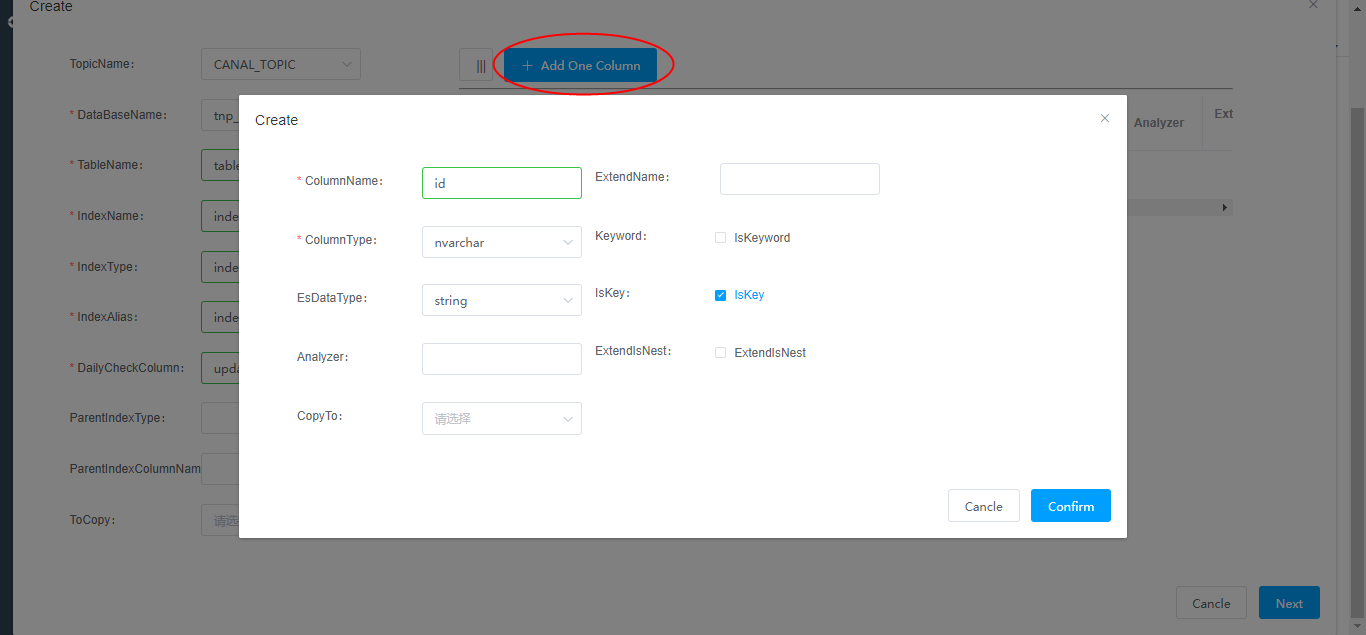
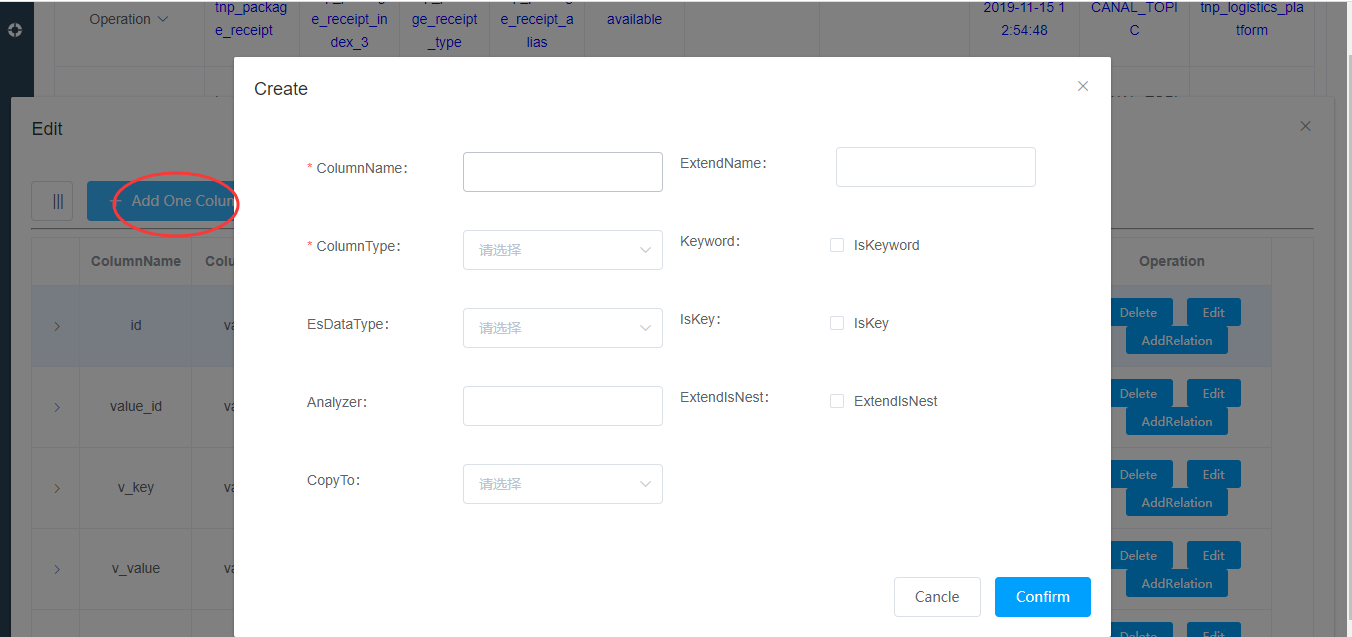
search center 2.0 version

diff --git a/source/_posts/elasticsearch/elasticsearch_center.md b/source/_posts/elasticsearch/elasticsearch_center.md
@@ -53,8 +53,12 @@ categories: cloud
   - 支持es映射的递归嵌套(支持nest嵌套)
   - 同步异常，支持断点续传
   - 表的一对多，一对一关联
+  - 索引的区域更新
   - 索引版本管理
   - 日常数据增量校验，保证每天的数据一致性（避免各类bug导致数据不一致，一个数据一致性保险检查程序）
+  - 在大表的情况，分布式创建索引
+  - 元数据类型的业务数据，当元数据修改的时候，需要将其关联的业务索引更新，这里支持延迟任务调度，并且是分布式的方式。
+  - Ik的动态词库
 
 ### 功能演示
 
@@ -80,7 +84,8 @@ categories: cloud
   - 表
     - 表的列表
       ![table-list.png](table-list.png)
-      一张表对应es里边的一个索引；
+      一张表对应es里边的一个索引;
+      如果是parent-child关系，是多张表映射到一个索引上，每一张表代表一个类型;
 
     - 表新增修改
       ![table-insert.png](table-insert.png)
@@ -88,9 +93,13 @@ categories: cloud
       IndexType：索引的type，一个索引有多个type
       IndexAlias：索引的别名，线上都是用的别名，如果索引发生了升级，只需要将别名指向新的索引版本即可，完成无缝切换
       DailyCheckColumn：日常检查的字段，一般是修改时间字段，用来对数据做校验，同步的时候也会用到这个字段，用时间戳做增量同步
+      BucketColumn: 分布式创建索引或者分布式延迟刷新元数据的时候根据这个值对表进行分桶，一般是表的创建时间
       ParentIndexType：父子关系的时候，当前是child，ParentIndexType指向的是parent的index type，父子关系中父是一个type，child是一个type，2个type必须在同一个索引里边。
       ParentIndexColumnName：子表中父表的pid字段名称。
       ToCopy：参考es官网解释：https://www.elastic.co/guide/en/elasticsearch/reference/current/copy-to.html
+      DelayEffect: 是否延迟刷新，当一张表设置了这个属性为true，那么这张表的binlog在消费的时候，不会刷新到索引，而且保存在mysql数据库里边，这些快照数据等待调度任务去消费，刷新到索引里边去，因此是延迟的方式，而且支持分布式的方式，被设置为true的表会在【delay】菜单展示，后续会对delay菜单做介绍。
+      Add One Column操作：添加一列
+      Auto Gen Column: 根据左侧填写的表名，自动拉取所有的列
 
     - 表字段添加
       ![table-column-insert.png](table-column-insert.png)
@@ -111,10 +120,16 @@ categories: cloud
       RelationTableColumns：关联的表要加载它的那些字段
       RelationTableColumn：当前SearchColumnName和RelationTableName的RelationTableColumn发生关联，一般是id之类的。
       ExtendIsNest：是否是嵌套的，此处可以覆盖字段的ExtendIsNest
+      freeSql: 关联子表附带的查询条件，比如 delete=0 and status = 1
+      Distinct: 对sql的查询结果进行mysql的distinct关键字去重
+      refreshParent: 当子表数据发生变化，而且子表在索引里边是nest的内嵌的方式，那么子表的数据变化会触发所在文档的更新
+      AreaUpdate:当子表数据发生变化，而且子表在索引里边是nest的内嵌的方式，那么子表的数据变化会触发所在文档的更新，更新方式采用区域更新的方式，和refreshParent的差别是少了很多无关的数据的查询，区域更新采用es的脚本更新文档的方式进行的
     - 表的状态和操作
       ![table-list-operation.png](table-list-operation.png)
-      另外表的状态在history和avaiable状态的时候会有deleteAll操作权限，deleteAll会把抽闲和es当中的索引全部删除，危险操作；
+      另外表的状态在history和avaiable状态的时候会有deleteAll操作权限，deleteAll会把抽象和es当中的索引全部删除，危险操作；
       表的抽象创建完毕之后状态是unavailable状态，表在创建新的索引之后，首先是changing状态，标识正在创建新的索引版本，版本会自动加一，上一个版本的索引会置为history，新的索引的状态是available状态，标识正在同步mysql。
+      Reset：状态置为可用、版本号清空、索引任务删除、当前版本索引删除，如果当前索引正在创建将会被强制终止，主要作用是用于创建异常的人工恢复。
+      AddDelayEffect: 当前表的变化不会立刻刷新到索引文档里边去，而是由调度任务去完成，一般元数据的表，并且这种元数据经常发生改变。
 
 ### 架构设计
 
@@ -126,27 +141,186 @@ categories: cloud
 #### 索引创建流程
   索引创建流程就是在页面发起【createIndex】操作，后端会进行5个步骤的操作：
   - 创建索引请求的发起，这个过程会做一些表和字段的校验，以及一些判重操作，比如当前表已经同步过，或者正在同步，又或者在同步任务比价多，同步任务被放到任务队列里边也是会被发现的，这些数据是不允许往下执行的。
-  - 将当前表抽象为一个同步任务，在DB层面就是在tnp_search_job里边插入一条数据，任务状态status是init，之后syn_cursor步长初始化时间是将要同步的表的最小时间, 即，select min(DailyCheckColumn) from table,注意：tnp_search_job表里边的数据只有三种状态，init、running、done，如果一个任务同步失败，那么这条同步任务会从tnp_search_job里边删除。
-  - 通知同步线程去消费本次的同步任务：
-    同步线程SynchronizeJobTask内部有一把锁，我们可以将SynchronizeJobTask理解为消费者，页面的创建索引请求是生产者，当消费者没有任务可以消费的时候，就会在lock上wait，当页面发起请求，插入了一条同步任务，就会notify一下消费线程去消费，这是一个经典的wait/notify模型，生产者消费者问题，lock就是用来做生产和消费协调的。我们可以看到消费者消费任务的时候，获取任务的sql：select * from from tnp_search_job where status in ('init','running'),即，初始化的任务和正在进行中的任务都会进入到同步线程的管理，running状态的也会加载出来的原因是为了在同步的过程中突然断电，下次启动的时候仍然可以从之前断掉的时间继续同步，也就是断点续传。
-  - 异步执行同步任务
+  - 一个创建索引的请求就是对一张表的数据到es的全量同步，table_id是当前要同步表的id，这张表首先会通过create_time分为多个桶，total_bucket_number是集群当中部署的app数量，mod_number是某个节点的顺序号(mod_number <= total_bucket_number),data_cursor是同步的游标，一般是表的id字段的值，job_type是任务的类型，创建索引是index类型，delay任务调度是job类型，params是任务的参数，比如在job类型，只同步某个业务id，可以放在这个参数里边，syn_cursor已经废弃，不再描述。集群当中存活的机器数n就是一张表生成的tnp_search_job的记录数。
+  - 分桶之后每台机器执行的sql会根据mod_number进行分区拉取数据:select * from table where  UNIX_TIMESTAMP(A.create_time) mod total_bucket_number  = mod_number order by A.modify_time;A指的是业务表名称。
+  ```
+  CREATE TABLE `tnp_search_job` (
+    `id` varchar(64) COLLATE utf8_bin NOT NULL,
+    `table_id` varchar(64) COLLATE utf8_bin DEFAULT NULL COMMENT 'table的id',
+    `status` varchar(45) COLLATE utf8_bin DEFAULT NULL COMMENT '同步状态',
+    `syn_cursor` timestamp(6) NULL DEFAULT NULL COMMENT '按照时间同步时间游标',
+    `total_bucket_number` int(11) DEFAULT NULL COMMENT '桶总数',
+    `mod_number` int(11) DEFAULT NULL COMMENT '桶编号',
+    `data_cursor` varchar(64) COLLATE utf8_bin DEFAULT NULL COMMENT '业务数据同步游标',
+    `job_type` varchar(45) COLLATE utf8_bin DEFAULT NULL COMMENT '任务类型：index:索引创建任务/task:调度任务',
+    `params` varchar(4096) COLLATE utf8_bin DEFAULT NULL COMMENT '任务参数',
+    `create_time` datetime DEFAULT NULL,
+    `modify_time` datetime DEFAULT NULL,
+    PRIMARY KEY (`id`)
+  ) ENGINE=InnoDB DEFAULT CHARSET=utf8 COLLATE=utf8_bin COMMENT='记录表的同步状态和同步游标';
+  ```
+  - 负载均衡过程：
+    发起负载均衡的节点执行负载均衡逻辑，每个节点都会把节点的抽象写到zookeeper里边，抽象对象如下：
+    ```
+    @Data
+    public class NodeJobEntity {
+
+        public NodeJobEntity(){}
+
+        public NodeJobEntity(CloudStatusENUM cloudStatusENUM, NodeStatusENUM nodeStatusENUM, NodeJobTypeENUM nodeJobTypeENUM,
+                             List<SearchJobBO> indexJobs, String rebalanceSessionId) {
+            this.cloudStatusENUM = cloudStatusENUM;
+            this.nodeStatusENUM = nodeStatusENUM;
+            this.nodeJobTypeENUM = nodeJobTypeENUM;
+            this.indexJobs = indexJobs;
+            this.rebalanceSessionId = rebalanceSessionId;
+        }
+
+        public NodeJobEntity(CloudStatusENUM cloudStatusENUM, NodeStatusENUM nodeStatusENUM, NodeJobTypeENUM nodeJobTypeENUM,
+                             List<SearchJobBO> indexJobs,  JobParam params, String rebalanceSessionId) {
+            this.cloudStatusENUM = cloudStatusENUM;
+            this.nodeStatusENUM = nodeStatusENUM;
+            this.nodeJobTypeENUM = nodeJobTypeENUM;
+            this.indexJobs = indexJobs;
+            this.params = params;
+            this.rebalanceSessionId = rebalanceSessionId;
+        }
+
+        /**
+         * 集群状态
+         REBALANCING("rebalancing"),
+         NORMAL("normal");
+         */
+        private CloudStatusENUM cloudStatusENUM;
+        /**
+         * 节点状态
+          CLEAN("clean"),
+          CLEAN_OK("clean_ok"),
+          INIT("init"),
+          FINISH("finish");
+         */
+        private NodeStatusENUM nodeStatusENUM;
+
+        /**
+         * 任务节点类型
+         INDEX("index"),
+         JOB("job");
+         */
+        private NodeJobTypeENUM nodeJobTypeENUM;
+
+        /**
+         * 节点任务
+         */
+        private List<SearchJobBO> indexJobs;
+
+        /**
+         * 任务参数
+         */
+        private JobParam params;
+
+        /**
+         * 工作线程池存活的线程数和未完成的任务数=
+         * ThreadPoolManager.getHighFrequencyTaskPool().getQueue().size()  + ThreadPoolManager.getHighFrequencyTaskPool().getActiveCount()
+         */
+        private Integer aliveThreadMount = -1;
+
+        /**
+         * rebalanceId 每次rebalance都会生成一个rebalanceSessionId，可以用来区分是否发生了新的rebalance。
+         */
+        private String rebalanceSessionId;
+
+    }
+    SearchJobBO:
+    @Data
+    public class SearchJobBO {
+        private String id;
+
+        private String tableId;
+        /**
+         * @see SearchJobStatusEnum
+          INIT("init","初始化"),
+          RUNNING("running","运行中"),
+          ERROR("error","同步异常"),
+          DONE("done","完毕");
+         */
+        private String status;
+
+        private Timestamp synCursor;
+
+        private Integer totalBucketNumber;
+
+        private Integer modNumber;
+
+        private String dataCursor;
+
+        /**
+         * @see NodeJobTypeENUM
+         INDEX("index"),
+         JOB("job");
+         */
+        private String jobType;
+
+        private String params;
+
+        private Date createTime;
+
+        private Date modifyTime;
+
+        /**
+         * 是否被负载均衡中断
+         */
+        private volatile Boolean breakByRebalance;
+    }
+    ```
+    负载均衡的过程：
+      - 首先会加分布式锁;
+      - 清除所有存活节点的任务数据，节点集群状态是REBALANCING，节点状态是CLEAN状态;
+        - 对NodeJobEntity的indexJobs数组清空，nodeStatusENUM置为clean，将这个信息写到zk节点里边，节点通过zk数据变化事件得到变化的数据，检查本地线程池是否有存活的任务，如果有就等待，等待线程池执行完毕(同步阻塞等待)，如果线程池没有任务，那么将nodeStatusENUM置为cleanok，写到zk
+        - 负载均衡发起的节点阻塞检查所有节点是否清除完毕，如果完毕，继续下面的步骤；
+      - 清空所有节点任务完毕，进入任务分配阶段;
+        - 根据任务数量和节点数量平均分配任务，任务会写到NodeJobEntity的indexJobs数组，nodeStatusENUM为init，cloudStatusENUM为rebalancing，然后写入到zk。
+      - 任务下发到各个节点完毕;
+        - 节点接到下发的任务后本地执行异步同步任务。
+      - 解锁
+  - 节点异步执行同步任务
     SynchronizeJobTask右侧的代码是SynchronizeJobTask的核心逻辑，在死循环当中，使用了CompletableFuture，而且是完全异步的，同步过程是异步，同步完毕（成功后者失败）之后也是异步的，一张表由于使用了CompletableFuture，就会对应使用2个线程分别去同步和处理同步结果。在supplyAsync当中做的工作有：
       - 将当前表的同步任务状态从init置为running状态
       - 表的状态置为changing状态
-    supplyAsync占用一个线程去处理。  
-    thenAcceptAsync是对同步完毕之后的后置处理：
-      - 同步成功
+      - 记录开始日志
+    supplyAsync占用一个线程去处理任务。  
+    thenAcceptAsync是对同步完毕之后的后置处理:
+      - 最后一个任务完成，并且不存在异常同步的任务，并且没有被负载均衡中断，并且是同步成功
         - 记录日志
         - 表的同步任务状态置为完毕
         - 将当前同步表的状态置为可用
         - 将上一个版本的索引状态置为history
         - 将索引别名指向新的索引版本
-        - 刷新上下文（为消息监听流程流程提供上下文支持）
+        - 删除mysql中当前表的任务抽象: delete from tnp_search_job where table_id = XXX and job_type='index';
         - 将在同步期间修改或者新增的数据（类似于jvm垃圾收集里边的浮动垃圾）刷新到新的索引里边，和这个步骤在图片中没有画出。
-      - 同步失败
+      - 最后一个任务完成，并且不存在异常同步的分桶，并且没有被负载均衡中断，并且是同步失败
         - 记录日志
-        - 删除同步任务
+        - 删除mysql中当前表的任务抽象: delete from tnp_search_job where table_id = XXX and job_type='index';
         - 将当前同步表的状态置为不可用
+        - 删除刚刚创建的索引版本映射
+        - 记录失败日志
+      - 最后一个任务完毕，但是被负载均衡中断
+        - 不做任何操作
+      - 最后一个任务完毕，而且是异常中断退出任务，一般是同步出现了问题, 比如long转换为integer超界
+        - 删除刚刚创建的索引版本
+        - 当前table状态回滚为不可用状态
+        - 如果同步失败直接删除表的同步任务数据，用户重新添加同步：delete from tnp_search_job where table_id = XXX and job_type='index';
+        - 记录失败日志
+      - 非最后一个任务，并且不是重新负载中断而且同步成功
+        - 更新job状态为done：update tnp_search_job set status = 'done' where id=XXX
+        - 记录成功日志
+      - 非最后一个任务，并且不是重新负载中断而且同步失败
+        - 更新job状态为done：update tnp_search_job set status = 'error' where id=XXX
+        - 记录失败日志
+      - 非最后一个任务，被负载均衡中断
+        - 不需要处理
+      - 非最后一个任务，异常中断退出任务，一般是同步出现了问题, 比如long转换为integer超界
+        - 更新job状态为done：update tnp_search_job set status = 'error' where id=XXX
+        - 记录失败日志
 
   - 刷新数据到es集群
       当同步任务被执行的时候，内部就会将数据从mysql的一张表按照步长同步到es集群当中，主要是由SynchronizeFactory来做的，SynchronizeFactory是一个同步工厂的抽象，他的实现类是EsSynchronizeFactoryImpl，同步过程如下：
@@ -170,7 +344,83 @@ categories: cloud
   - 组装存储到es的JSON对象，这个对象是按照建立的mapping格式组装的，我们设置的父子关系，嵌套等设置，这个JSON对象都要遵守。
   - 检查索引和索引type，如果没有的话就会创建。
   - 父子关系的检查，es当中规定parent type和child type必须在同一个es分片，否则就会产生查询混乱，当我们修改了一个child的pid的时候，这个时候pid对应的parent可能不和child在同一个分片，这个时候我们要将child删除，重新插入child，确保child和parent在同一个分片，[parent-child扩展阅读](https://www.elastic.co/guide/cn/elasticsearch/guide/current/indexing-parent-child.html)
-  - 调用es的java api刷新数据到es集群。
+  - 调用es的java api刷新数据到es集群(支持批量刷入)。
+
+#### Delay延迟刷新
+
+##### 问题描述
+  在构建索引的时候，有些表属于元数据，或者一张表的变动涉及到大量表的同步，导致同步阻塞，这种问题导致了binlog消息的阻塞，影响后续业务的进行。
+
+##### 解决方案
+  设置某些表的修改在索引生效可以是延迟的，即，当天做了修改，第二天才会生效。
+  在表tnp_search_table里边增加字段：is_delay_effect,意思是是否延迟生效;
+
+  如果某个表被设置了延迟生效，那么当这个表的数据发生变化的时候，不会执行回溯过程，比如标签表是一个被商品表引用的元数据表，如果一个标签被成千上万个商品打标，那么如果标签的元数据发生变化，那么这些成天上万的商品数据的索引中的标签信息需要被更新，而更新是比较缓慢的，是一个大数据量的更新，耗时比较长，因此，如果在标签表上设置了is_delay_effect=yes，那么这个回溯会在当天晚上被调度任务执行，第二天生效。
+
+##### 记录案发现场
+  如果某个表设置了is_delay_effect=yes那么需要立刻记录案发现场到数据库。
+
+  案发现场格式(tnp_change_snapshot)：
+  id,      dataBase_id,table_id,table_name,operation_type,   changeDatas, status
+  唯一序列，数据库id   ，表id    ,表名      ,操作类型(修改/删除),当前变化的数据,状态
+
+  修改和新增
+  修改和新增都会有幂等，后边的更新覆盖前边的更新，减少无谓的消耗;
+  只记录【id,dataBase_id,table_id,table_name,operation_type,status】
+  删除
+  记录【id,dataBase_id,table_id,table_name,operation_type,changeDatas,status】
+
+##### zk树形结构
+```
+/search-center/[PERSISTENT]
+- nodes[PERSISTENT]
+ - node1[EPHEMERAL]
+ - node2[EPHEMERAL]
+ - node3[EPHEMERAL]
+   {NodeId:"",CloudStatus:"REBALANCING/NORMAL",NodeStatus:"CLEAN/CLEAN_OK/INIT/FINISH",SessionId:"", jobType:"index/job",
+     jobs:[{id:"",tableId:"",status:"",synCursor:"",totalBucketNumber:"",modNumber:"",dataCursor:""}]
+   }
+```
+
+##### 分片策略
+ ![delay.png](delay.png)
+
+###### 方案一【基于抽象】
+  首先根据我们保存的表关系的抽象模型，找到标签表关联了那张业务表，比如标签通过标签关系表关联了product表，那么我们的调度任务就要把整个product表所有数据刷新一遍，造成没有受到标签影响的product也刷新了，资源浪费，但是对已有程序复用性高。
+
+###### 方案二【基于数据】
+  从元数据的表开始往上回溯，一直到product表，中间要经过中间表的层层递归往上找到 product，优点是只更新元数据相关联的product，缺点是如果一个标签影响了10万product的数据，那个这个十万数据的刷新数据集不能拆分为桶，因为这个是一个单机多层递归而且是分页的过程，做分布式分桶很复杂，即，不能使用分布式的方式拆分压力。对已有程序复用性高。
+
+###### 方案三【混合】
+  新建表：
+  tnp_search_change_snapshot：
+  id , table_id, relation_data_base_id, relation_table_id, sql
+  A-(DB1-从快照表收集数据)-程序固定写死-调度任务发起的节点执行:
+  select database_id,table_id,business_id from tnp_search_change_snapshot where status="init" group by database_id,table_id
+  B-(DB2-中间数据-分桶-分页)-tnp_search_change_snapshot.sql字段-桶节点执行:
+  select lr.target_id,lr.target_type,label.label_name from tnp_label label right join tnp_label_relation lr on label.id=lr.label_id
+  where lr.label_id in (A.business_id) and UNIX_TIMESTAMP(lr.create_time) mod 6 = 1 limit 1,20
+  风险：A的集合超出in的范围，需要进行二次分桶,二次rebalance。
+  C-(DB3-业务数据刷新)-桶节点执行:
+  select * from tnp_product【tnp_search_change_snapshot.relation_table_id】 where id in (B.target_id) limit 1,20
+  程序复用性低，编写新的逻辑。
+
+  风险：
+  1、tnp_change_snapshot表如果当天产生了大量的数据，需要多次rebalance，因为zk的节点存储容量上限是1M，查看过公司的zk测试环境是1M，没有扩容（扩容的话需要每台机器修改zk启动脚本）
+  多次rebalance造成调度任务执行的时间和复杂度以及不确定性上增高，系统熵变大。
+  2、只能支持跨2个业务数据库（支持同一个数据库水平拆分）。
+
+#### 调度
+  - 调度任务扫描tnp_change_snapshot，得到调度列表。将每一个调度抽象为线程可运行的实体;
+  - 获取当前集群可用机器数量（zk临时节点数量）;
+  - 调度和rebalance是互斥的2个任务;
+    - 如果当前集群正在REBALANCING，job类型是index，那么snapshopJobs无法执行，线程等待重试，重试次数是有限制的;
+    - 如果当前集群正在REBALANCING，job类型是调度(job)，那么index重负载无法执行，线程等待重试，重试次数是有限制的;
+  - 开始执行调度任务，设置当前任务的db状态是running，如果任务中断（断电），那么重启之后会重新拉起running的任务;
+  - 当一个任务执行完毕之后，线程会删除这个任务的DB和zk里边的数据;
+  - 到目前为止系统有2种调度：
+    - 复盘调度：当天发生变化的数据，晚上重新覆盖一次；
+    - 数据延迟生效调度：针对于引起蝴蝶效应的数据进行生效。
 
 #### 类图
   ![SearchCenterCLassDiagram.jpg](SearchCenterCLassDiagram.jpg)

diff --git a/source/_posts/elasticsearch/ELK5.6.11_install.md b/source/_posts/elasticsearch/ELK5.6.11_install.md
@@ -1,0 +1,6 @@
+---
+title: ELK5.6.11_install
+date: 2018-09-28 22:14:37
+tags: [elasticsearch, kibana ,logstash]
+categories: cloud
+---
